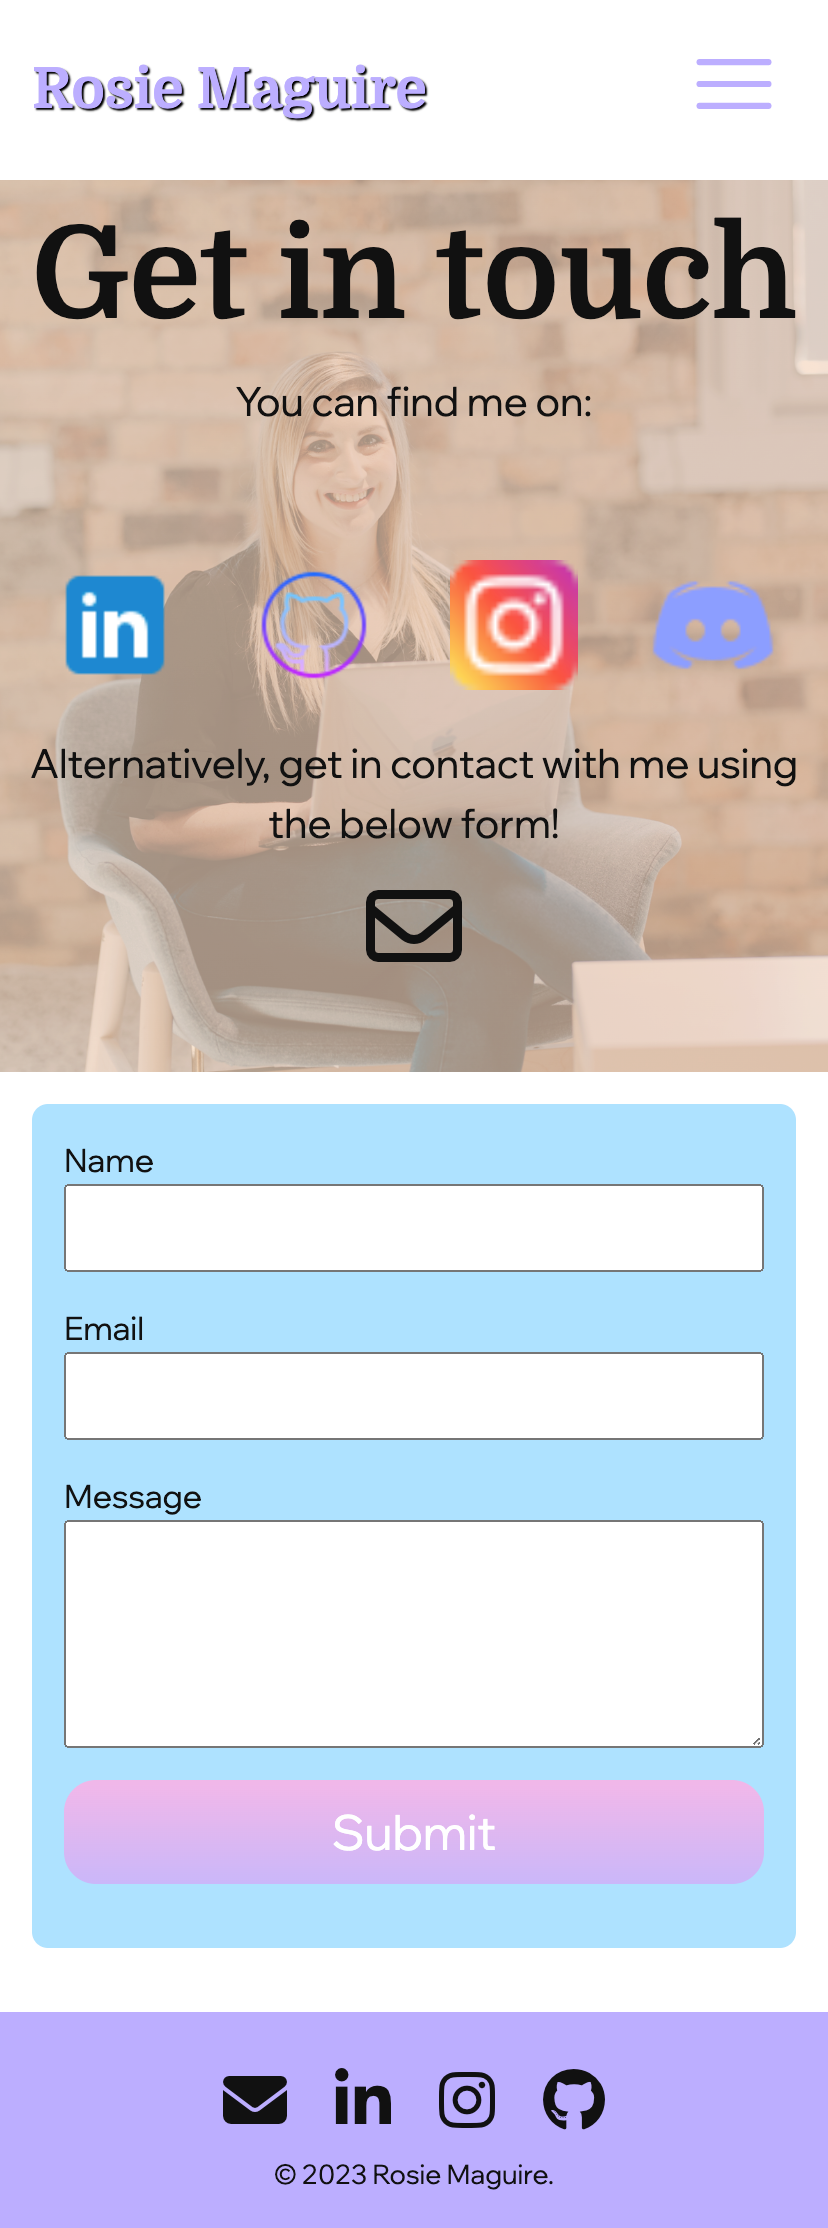
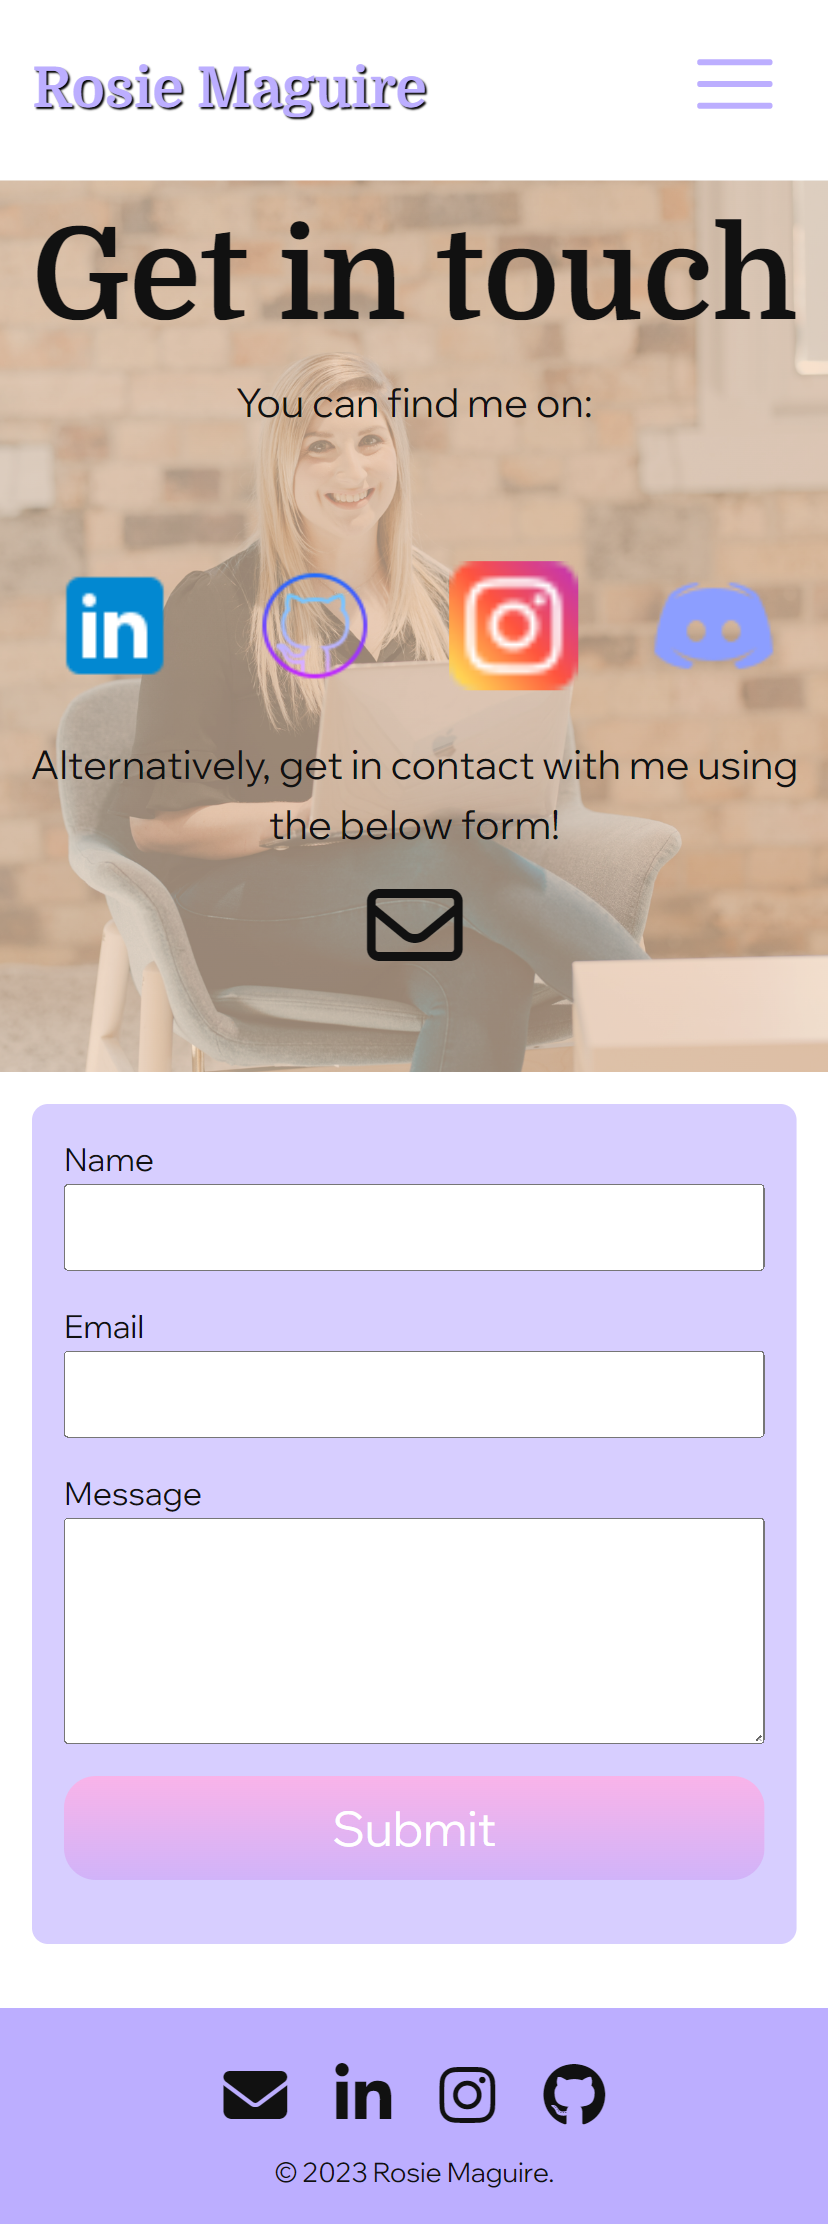
styling updates

diff --git a/css/styles.css b/css/styles.css
@@ -474,7 +474,7 @@ footer small {
 }
 
 #contact-form {
-  background-color: var(--blue);
+  background-color: var(--lightpurple);
   border-radius: 8px;
 }
 
